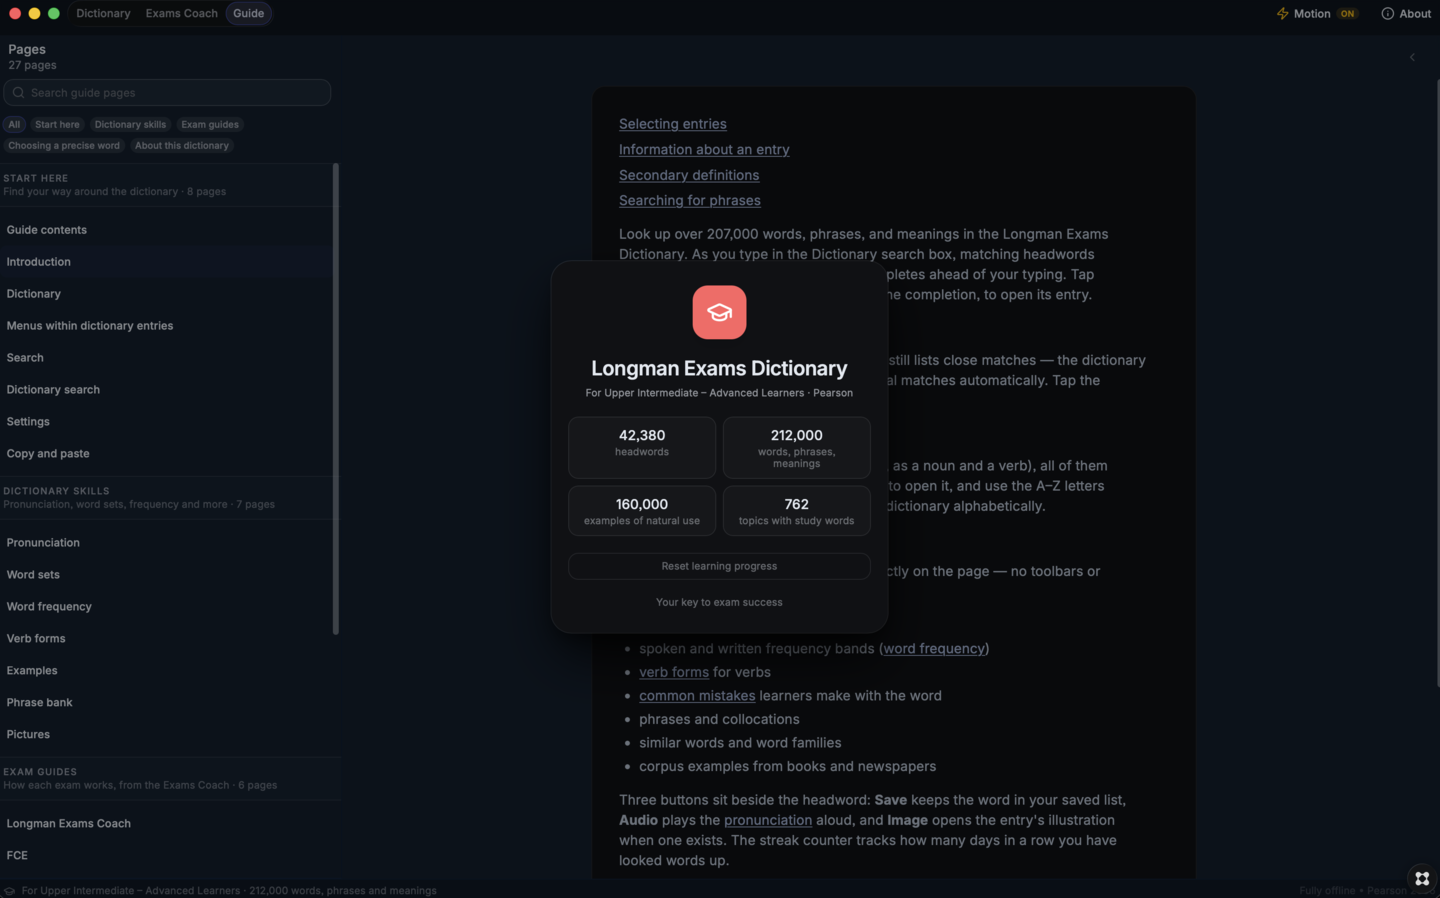
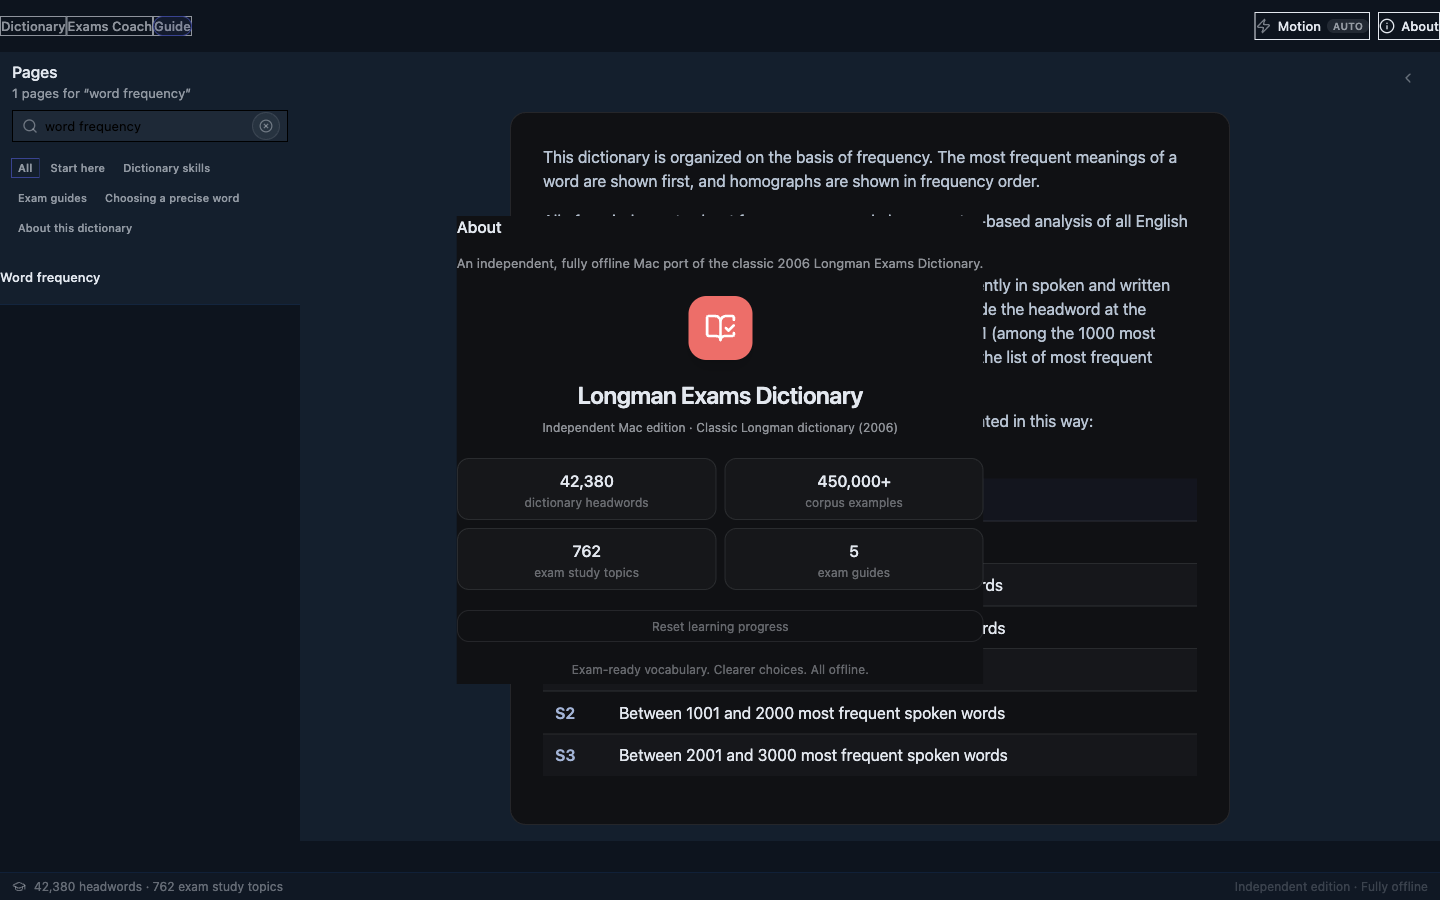
docs: refresh README screenshots and structure
Replace stale app shots with current real-data screens, improve gallery alt text and layout, and show the actual repository root in the file tree.

diff --git a/README.md b/README.md
@@ -19,9 +19,13 @@ Unofficial native macOS port of the classic **Longman Exams Dictionary CD-ROM (2
 
 ## Screenshots
 
-| Dictionary | Exams Coach | Guide | About |
-|---|---|---|---|
-| ![Dictionary entry](media/L-entry.png) | ![Exams Coach topic](media/L-coach-detail.png) | ![Guide contents](media/L-guide-article.png) | ![About dialog](media/L-about.png) |
+| Dictionary · gobsmacked | Exams Coach · ACCEPT |
+|---|---|
+| ![Dictionary entry for “gobsmacked,” showing its definition and corpus examples](media/L-entry.png) | ![Exams Coach topic “ACCEPT,” with related-word definitions and exam guides](media/L-coach-detail.png) |
+
+| Guide · Word frequency | About |
+|---|---|
+| ![Guide article explaining Longman frequency bands in an accessible table](media/L-guide-article.png) | ![About dialog showing dictionary and corpus statistics](media/L-about.png) |
 
 ## Features
 
@@ -47,7 +51,7 @@ Unofficial native macOS port of the classic **Longman Exams Dictionary CD-ROM (2
 ## Project structure
 
 ```
-sources/
+./
 ├── main/handlers/
 │   ├── dictionary.ts            # SQLite search, entries and Guide backend
 │   ├── input.ts                 # bounded IPC input normalization
